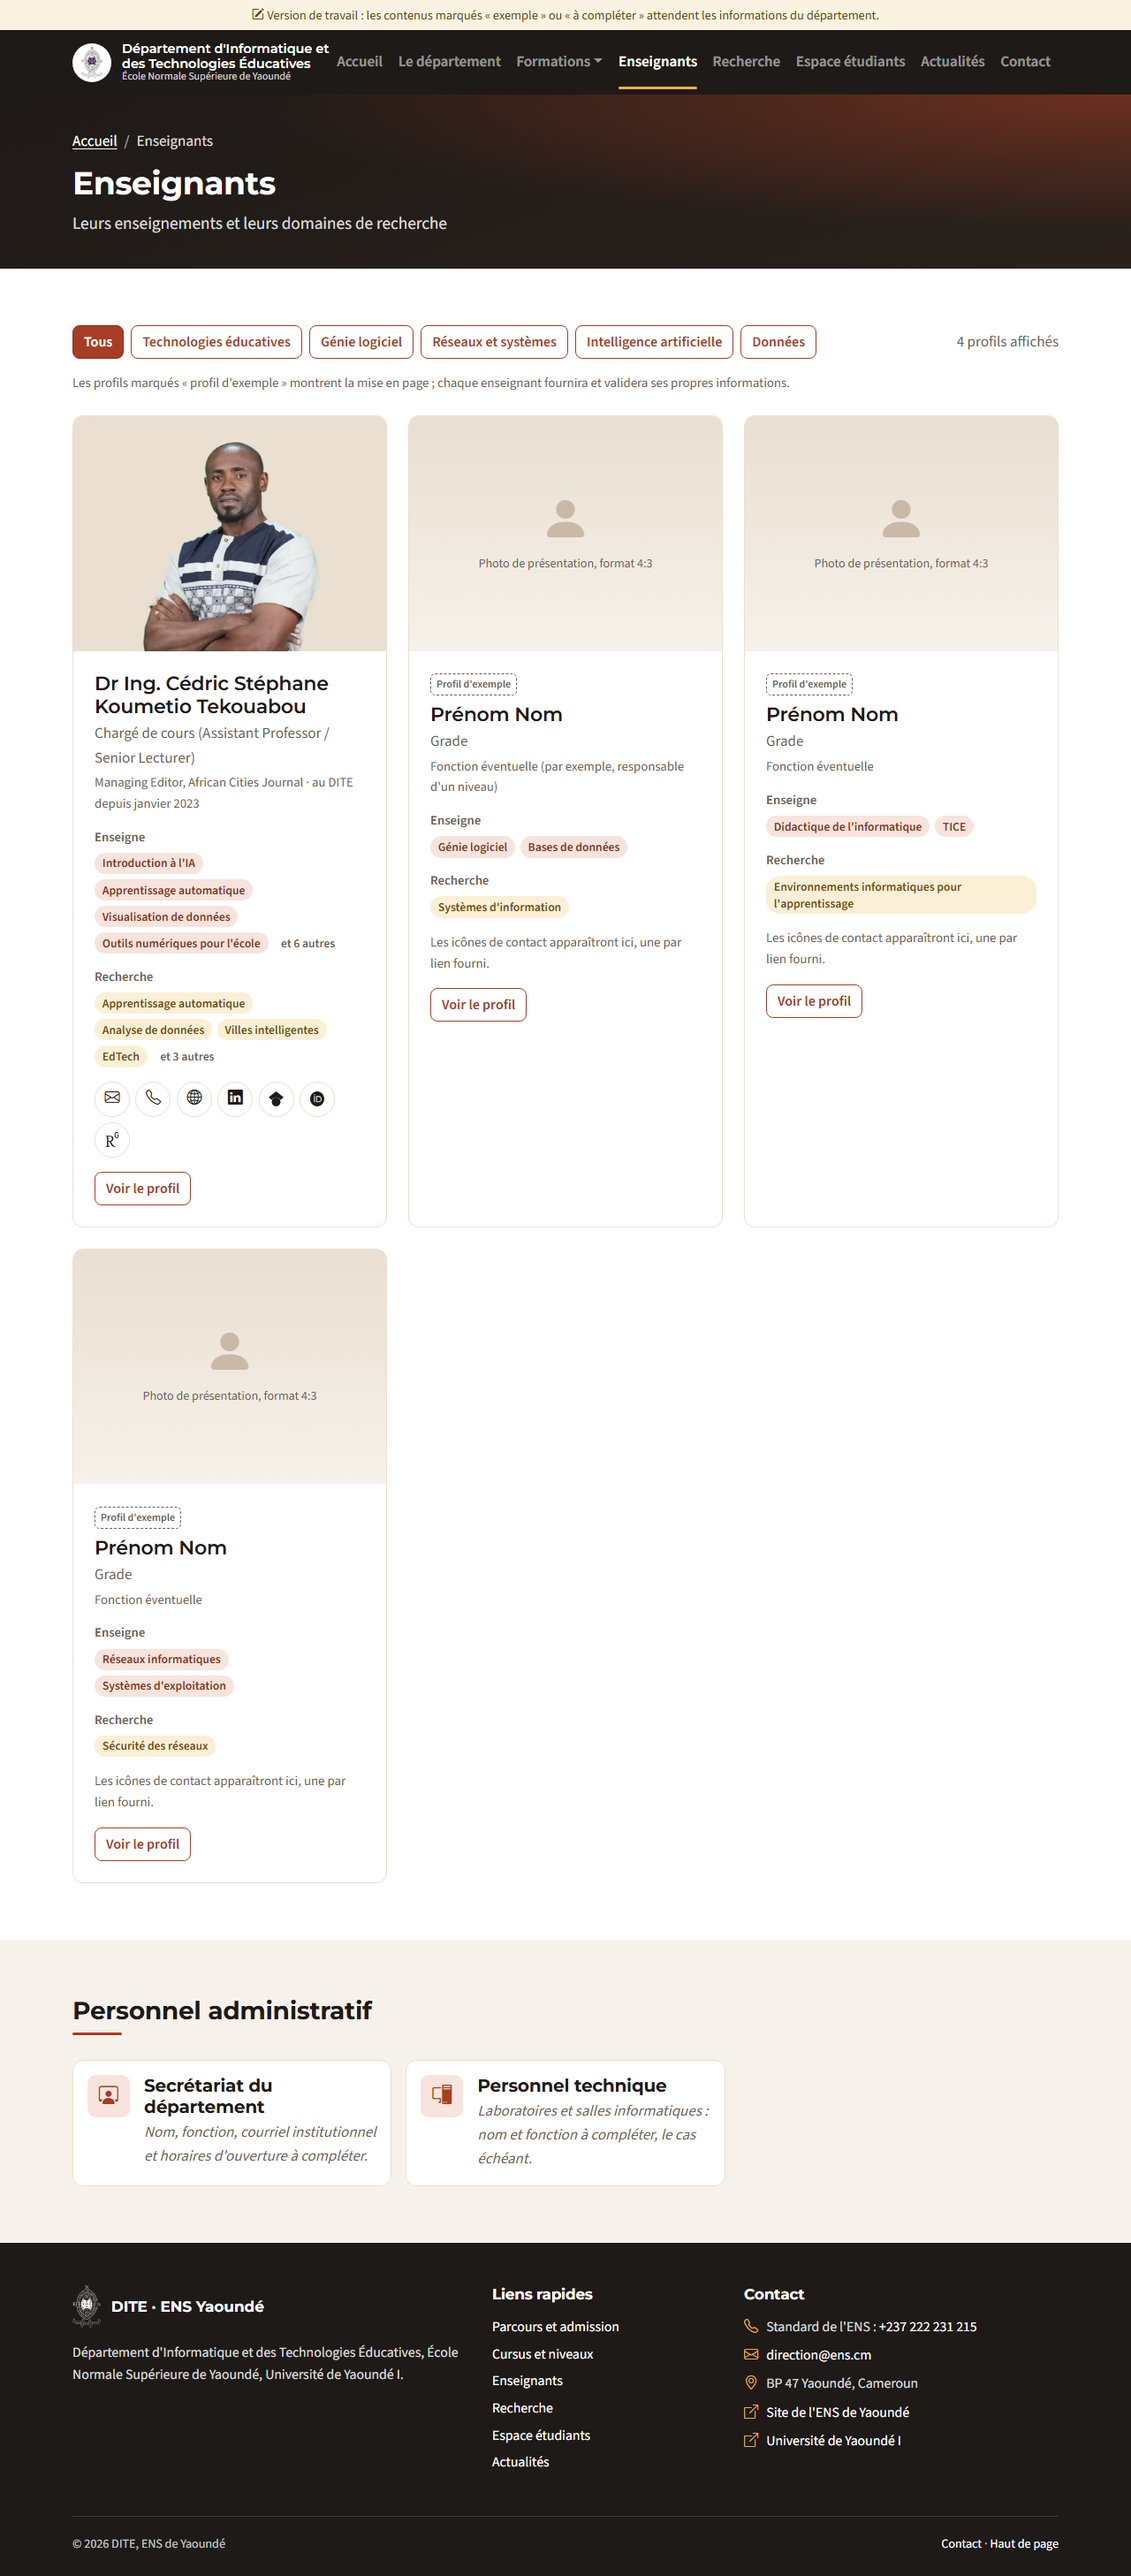
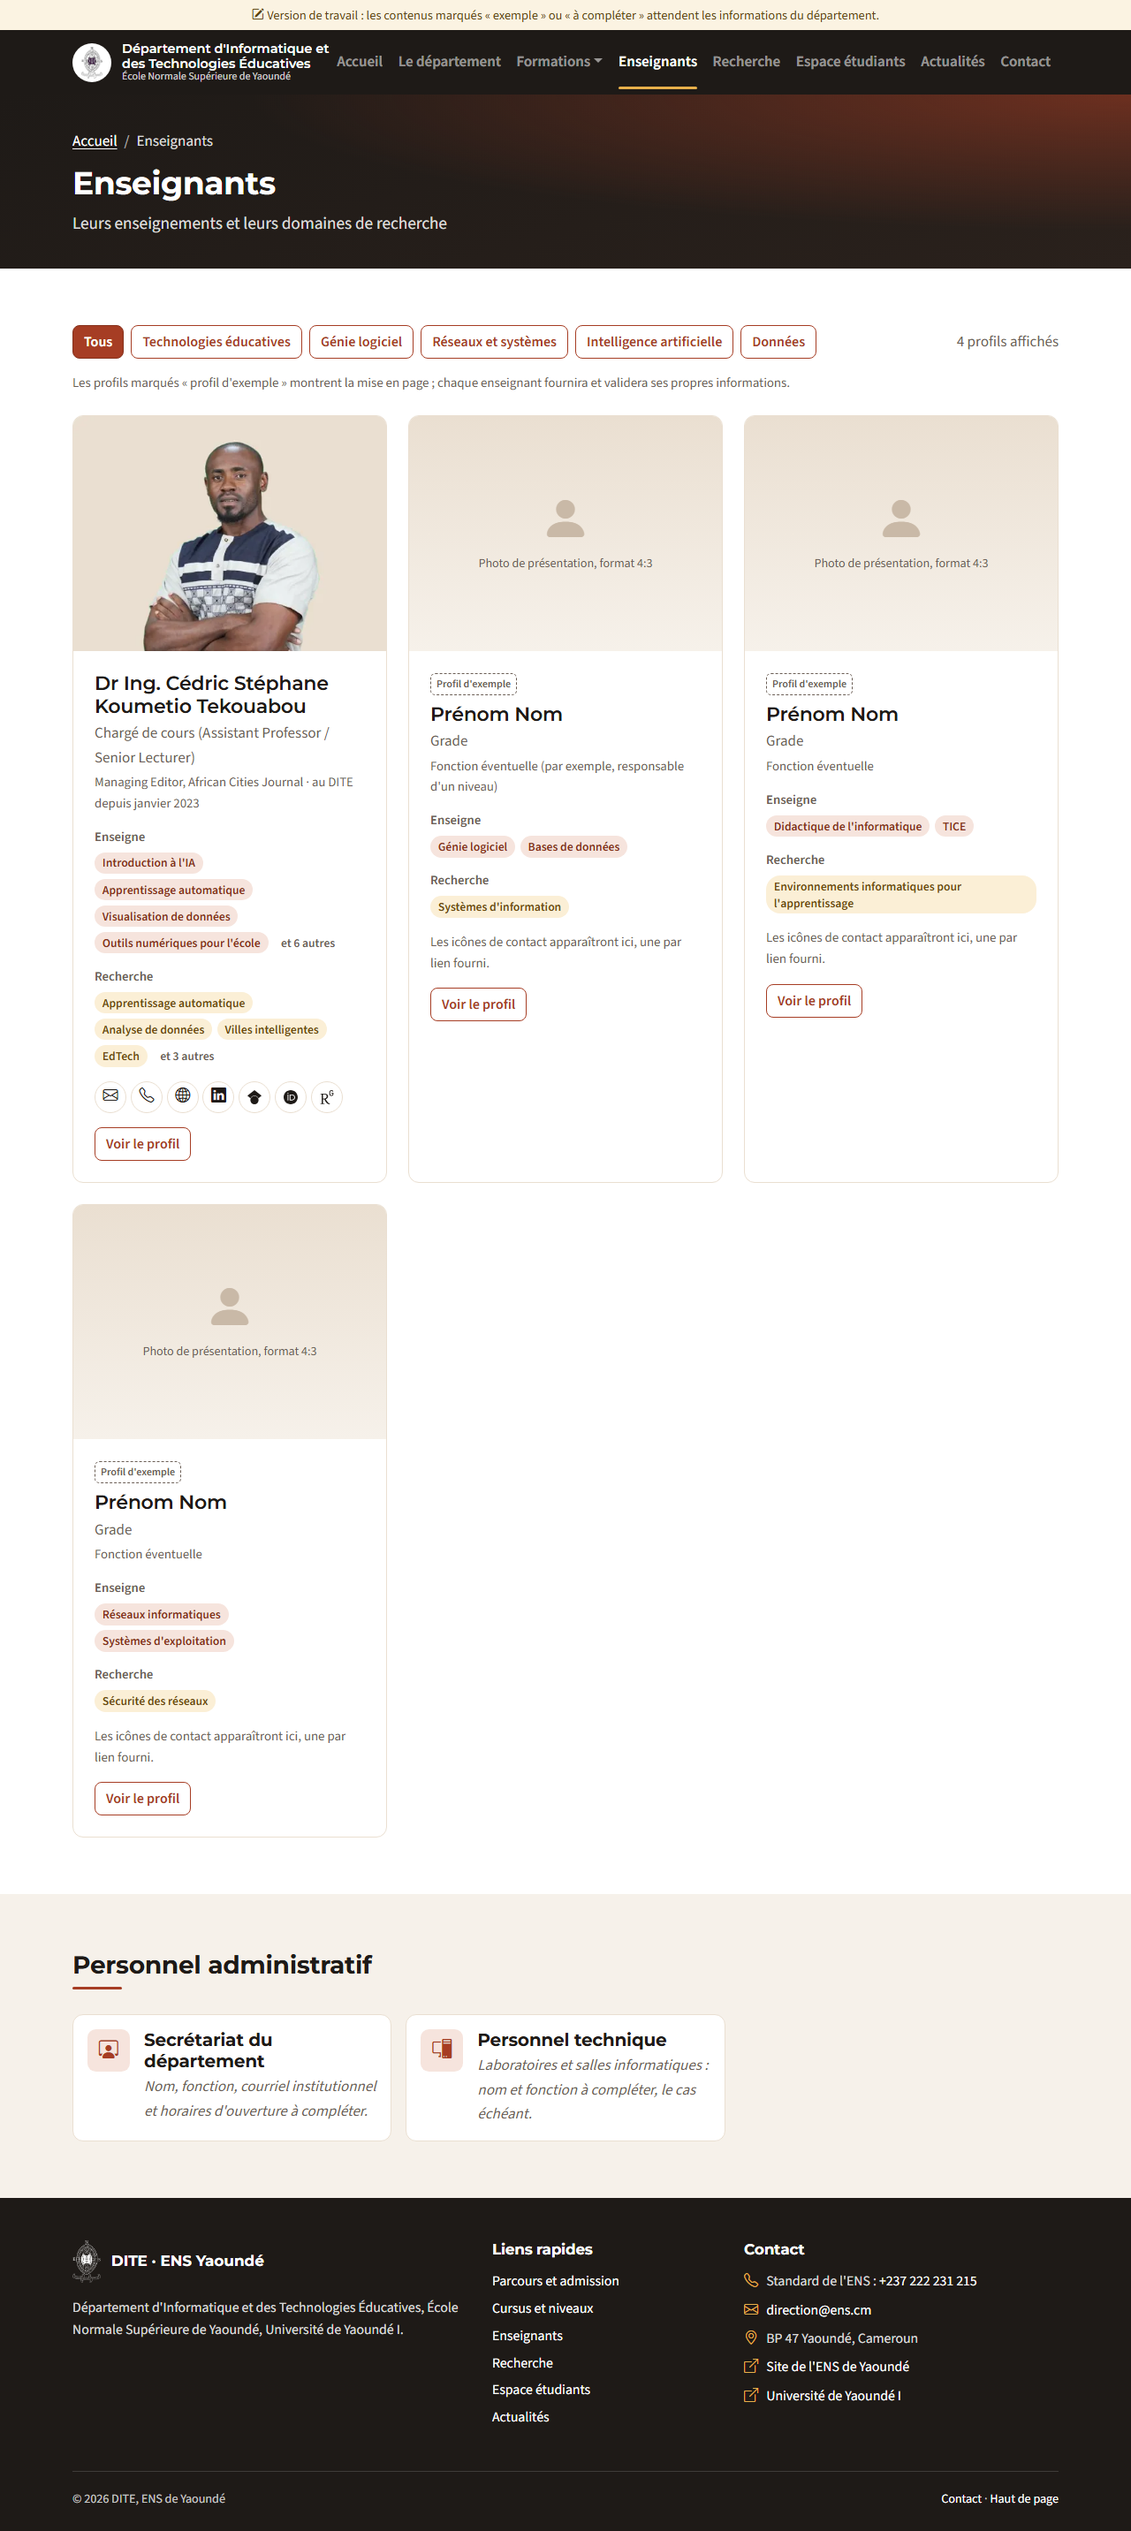
Captures d'ecran ; corrections : debordement mobile de l'article, taille des icones de contact

diff --git a/assets/css/style.css b/assets/css/style.css
@@ -623,13 +623,13 @@ a:hover { text-decoration-thickness: 2px; }
 .tag-enseigne { background: var(--dite-laterite-clair); color: var(--dite-laterite-fonce); }
 .tag-recherche { background: var(--dite-ocre-clair); color: var(--dite-ocre-texte); }
 
-.icones-contact { display: flex; flex-wrap: wrap; gap: .4rem; list-style: none; padding: 0; margin: 1rem 0; }
+.icones-contact { display: flex; flex-wrap: wrap; gap: .3rem; list-style: none; padding: 0; margin: 1rem 0; }
 .btn-icone {
   display: inline-flex;
   align-items: center;
   justify-content: center;
-  width: 2.5rem;
-  height: 2.5rem;
+  width: 2.25rem;
+  height: 2.25rem;
   border-radius: 50%;
   border: 1px solid var(--dite-sable-fonce);
   background: #fff;
@@ -639,7 +639,7 @@ a:hover { text-decoration-thickness: 2px; }
   transition: background-color .15s ease, border-color .15s ease;
 }
 .btn-icone:hover { background: var(--dite-sable); border-color: var(--dite-laterite); color: var(--dite-laterite); }
-.btn-icone img { width: 1.05rem; height: 1.05rem; }
+.btn-icone img { width: 1rem; height: 1rem; }
 
 .profil-detail {
   border-top: 1px solid var(--dite-sable-fonce);

diff --git a/actualite.html b/actualite.html
@@ -72,7 +72,7 @@
 
   <article class="section" aria-labelledby="titre-article">
     <div class="container">
-      <div class="row g-5">
+      <div class="row g-4 g-lg-5">
         <div class="col-lg-8">
           <h2 id="titre-article" class="visually-hidden">Texte de l'article</h2>
           <div class="emplacement-image rounded-3 mb-4" role="img" aria-label="Emplacement réservé à l'image de l'article">
